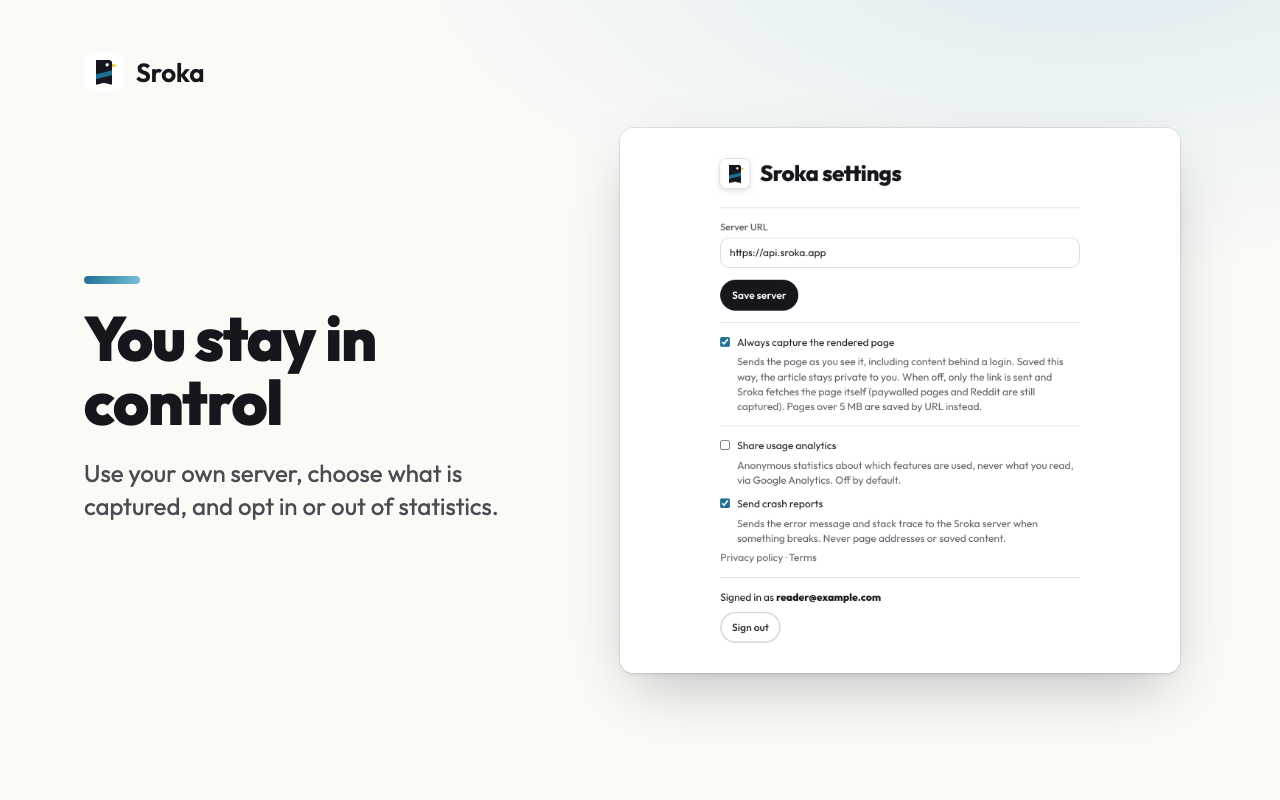
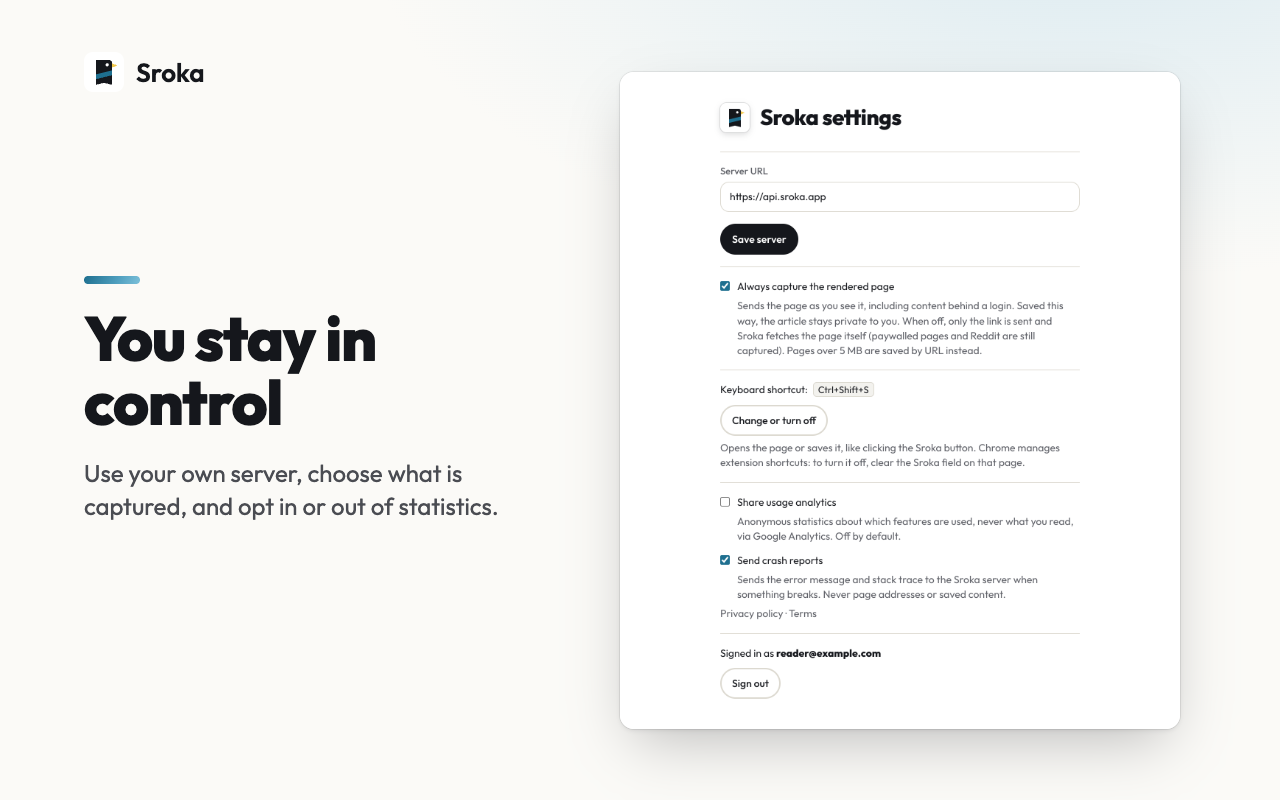
feat(extension): 0.8.0 — Ctrl+Shift+S shortcut, turn it off from settings
Suggested shortcut is now Ctrl+Shift+S (Mac Command+Shift+S). Alt+Shift+S blocked typing Polish Ś,
and Ctrl/Command+Shift+Y is taken by Bitwarden. The options page gains a "Keyboard shortcut" section
showing the current binding (or Off) with a button to chrome://extensions/shortcuts, since an extension
cannot clear its own binding. README, landing page, web Settings, store listing and images updated.

Changed region(s): [[0.5, 0.1875, 0.9062, 0.875], [0.5, 0.9062, 0.9062, 0.9375], [0.5625, 0.125, 0.7188, 0.1562]]

diff --git a/apps/extension/entrypoints/options/Options.tsx b/apps/extension/entrypoints/options/Options.tsx
@@ -2,6 +2,7 @@ import { useEffect, useState } from "react";
 import { Mark } from "../../components/Mark.tsx";
 import { describeError, signOut } from "../../lib/api.ts";
 import { analyticsConfig, getConsent, PRIVACY_URL, setConsent as saveConsent, TERMS_URL, type Consent } from "../../lib/consent.ts";
+import { actionShortcut, openShortcutSettings } from "../../lib/shortcut.ts";
 import { DEFAULT_SERVER, getSettings, normalizeServerUrl, setSettings, clearSession, type Settings } from "../../lib/settings.ts";
 
 export function Options() {
@@ -10,6 +11,7 @@ export function Options() {
   const [consent, setConsent] = useState<Consent>({ analytics: null, errors: true });
   const [msg, setMsg] = useState("");
   const [err, setErr] = useState("");
+  const [shortcut, setShortcut] = useState<string | null>(null);
 
   const load = async () => {
     const cur = await getSettings();
@@ -18,6 +20,17 @@ export function Options() {
   };
   useEffect(() => void load(), []);
   useEffect(() => void getConsent().then(setConsent), []);
+  // Re-read the binding when the user comes back from chrome://extensions/shortcuts.
+  useEffect(() => {
+    const refresh = () => void actionShortcut().then(setShortcut);
+    refresh();
+    window.addEventListener("focus", refresh);
+    document.addEventListener("visibilitychange", refresh);
+    return () => {
+      window.removeEventListener("focus", refresh);
+      document.removeEventListener("visibilitychange", refresh);
+    };
+  }, []);
   const update = async (patch: Partial<Consent>) => setConsent(await saveConsent(patch));
 
   if (!s) return null;
@@ -87,6 +100,19 @@ export function Options() {
             </span>
           </span>
         </label>
+      </div>
+
+      <div className="section">
+        <p style={{ margin: "0 0 10px" }}>
+          Keyboard shortcut: {shortcut ? <kbd>{shortcut}</kbd> : <strong>Off</strong>}
+        </p>
+        <button className="btn" style={{ flex: "0 0 auto" }} onClick={() => void openShortcutSettings()}>
+          {shortcut ? "Change or turn off" : "Set a shortcut"}
+        </button>
+        <p className="hint">
+          Opens the page or saves it, like clicking the Sroka button. Chrome manages extension shortcuts: to turn it off,
+          clear the Sroka field on that page.
+        </p>
       </div>
 
       <div className="section">

diff --git a/apps/extension/lib/shortcut.test.ts b/apps/extension/lib/shortcut.test.ts
@@ -1,5 +1,5 @@
 import { beforeEach, describe, expect, it, vi } from "vitest";
-import { actionShortcut, markShortcutHintSeen, shortcutHintToShow } from "./shortcut.ts";
+import { actionShortcut, markShortcutHintSeen, openShortcutSettings, SHORTCUTS_URL, shortcutHintToShow } from "./shortcut.ts";
 import { installChrome } from "./test-chrome.ts";
 
 let chromeMock: ReturnType<typeof installChrome> & { commands?: { getAll: ReturnType<typeof vi.fn> } };
@@ -13,8 +13,8 @@ beforeEach(() => {
 
 describe("shortcut hint", () => {
   it("returns the actual binding of _execute_action", async () => {
-    withCommands([{ name: "other", shortcut: "Ctrl+Q" }, { name: "_execute_action", shortcut: "Alt+Shift+S" }]);
-    expect(await actionShortcut()).toBe("Alt+Shift+S");
+    withCommands([{ name: "other", shortcut: "Ctrl+Q" }, { name: "_execute_action", shortcut: "Ctrl+Shift+S" }]);
+    expect(await actionShortcut()).toBe("Ctrl+Shift+S");
   });
 
   it("returns null when the shortcut is unbound or missing", async () => {
@@ -31,9 +31,19 @@ describe("shortcut hint", () => {
   });
 
   it("is shown until marked seen, then never again", async () => {
-    withCommands([{ name: "_execute_action", shortcut: "⌥⇧S" }]);
-    expect(await shortcutHintToShow()).toBe("⌥⇧S");
+    withCommands([{ name: "_execute_action", shortcut: "⇧⌘S" }]);
+    expect(await shortcutHintToShow()).toBe("⇧⌘S");
     await markShortcutHintSeen();
     expect(await shortcutHintToShow()).toBeNull();
+  });
+});
+
+describe("shortcut settings", () => {
+  it("opens Chrome's extension shortcuts page", async () => {
+    const create = vi.fn(async () => ({}));
+    (chromeMock as unknown as { tabs: unknown }).tabs = { create };
+    await openShortcutSettings();
+    expect(create).toHaveBeenCalledWith({ url: SHORTCUTS_URL });
+    expect(SHORTCUTS_URL).toBe("chrome://extensions/shortcuts");
   });
 });

diff --git a/apps/extension/wxt.config.ts b/apps/extension/wxt.config.ts
@@ -28,10 +28,10 @@ export default defineConfig({
     name: "Sroka — Save for later",
     description: "Save pages to read later in Sroka",
     ...(process.env.SROKA_STORE_BUILD ? {} : { key: EXT_PUBLIC_KEY }),
-    // Alt+Shift+S opens the popup, which saves the page (`_execute_action` needs no permission). Users can rebind it
+    // Ctrl+Shift+S (Mac: Command+Shift+S) opens the popup, which saves the page (`_execute_action` needs no permission). Users can rebind it
     // at chrome://extensions/shortcuts; the popup shows the actual binding once.
     commands: {
-      _execute_action: { suggested_key: { default: "Alt+Shift+S", mac: "Alt+Shift+S" }, description: "Save this page to Sroka" },
+      _execute_action: { suggested_key: { default: "Ctrl+Shift+S", mac: "Command+Shift+S" }, description: "Save this page to Sroka" },
     },
     permissions: ["activeTab", "contextMenus", "storage", "scripting", "alarms", "tabs"],
     host_permissions: [

diff --git a/apps/web/index.html b/apps/web/index.html
@@ -141,7 +141,7 @@
           <li class="card">
             <div class="card-top"><span class="num">1</span></div>
             <h3>Spot it</h3>
-            <p>Click the magpie in Chrome (<code>Alt+Shift+S</code>), paste a link on the web, or share from any app on Android, iPhone, or iPad.</p>
+            <p>Click the magpie in Chrome (<code>Ctrl+Shift+S</code>, <code>⌘⇧S</code> on Mac), paste a link on the web, or share from any app on Android, iPhone, or iPad.</p>
           </li>
           <li class="card">
             <div class="card-top"><span class="num">2</span></div>

diff --git a/apps/extension/lib/shortcut.ts b/apps/extension/lib/shortcut.ts
@@ -32,3 +32,14 @@ export async function markShortcutHintSeen(): Promise<void> {
     /* best effort */
   }
 }
+
+/**
+ * Chrome's own page for extension shortcuts. An extension cannot change or clear its command binding itself, so
+ * "turn off" means clearing it there (that also frees the key for typing). Extension pages may open chrome:// URLs
+ * with `tabs.create`.
+ */
+export const SHORTCUTS_URL = "chrome://extensions/shortcuts";
+
+export async function openShortcutSettings(): Promise<void> {
+  await ext().tabs.create({ url: SHORTCUTS_URL });
+}

diff --git a/apps/web/src/routes/Settings.tsx b/apps/web/src/routes/Settings.tsx
@@ -131,7 +131,7 @@ export default function Settings() {
       </Section>
 
       <Section title="Browser extension">
-        <p className="text-sm text-ink2">Save any page with one click or Alt+Shift+S.</p>
+        <p className="text-sm text-ink2">Save any page with one click or Ctrl+Shift+S (⌘⇧S on Mac).</p>
         <a className="btn mt-3" href={EXTENSION_URL} target="_blank" rel="noopener noreferrer">Get the Chrome extension</a>
       </Section>
 

diff --git a/apps/extension/assets/tailwind.css b/apps/extension/assets/tailwind.css
@@ -134,3 +134,12 @@ body {
   padding: 16px 0;
   border-top: 1px solid var(--line);
 }
+.page kbd {
+  margin-left: 4px;
+  padding: 1px 6px;
+  border: 1px solid var(--line);
+  border-radius: 5px;
+  background: var(--chip);
+  font: inherit;
+  font-size: 0.92em;
+}

diff --git a/docs/decisions.md b/docs/decisions.md
@@ -66,7 +66,7 @@ Exact HTTP/sync contract: `docs/api.md` (written in the foundation step; source 
 
 ## D8 Clients
 - Web (`apps/web`): React 19 + Vite + react-router 7 data mode + TanStack Query + Tailwind v4. Same-origin fetch to `/v1` and `/api/auth` with `credentials: "same-origin"`. Vite multi-page build: `apps/web/index.html` = static landing at `/`, `apps/web/app/index.html` = SPA at `/app/` (react-router `basename: "/app"`). `workers/api` assets dir = `../../apps/web/dist`, `not_found_handling: "none"`, `run_worker_first: true` (every request hits the Worker first — needed for the content-host branching; non-API paths go to `env.ASSETS`); the Worker serves `/app/*` via `env.ASSETS.fetch(req)` and falls back to `/app/index.html` on 404 (SPA deep links). Use the `frontend-design` skill; brand = magpie (black/white with iridescent blue-green accent).
-- Extension (`apps/extension`): WXT + React, MV3. Toolbar popup: sign-in (email → code), "Saved ✓" on open + tag input with suggestions, open library. Context menus "Save link to Sroka" / "Save page to Sroka", badge (no keyboard commands: Alt+Shift+letter blocks Polish Ś/Ą) for current tab, retry queue in `chrome.storage.local`, options: server URL (default `https://api.sroka.app`), "always capture rendered page" (default on since 2026-10-23; captures are stripped and gzipped, api.md §5.1). host_permissions: `https://api.sroka.app/*` (+ `http://localhost:8787/*` in dev); `optional_host_permissions: ["https://*/*", "http://localhost/*"]` — the options page calls `chrome.permissions.request({origins:[origin + "/*"]})` when a custom server URL is saved. "Open library" opens `${appOrigin}/app/` with `appOrigin` from `GET /v1/config`.
+- Extension (`apps/extension`): WXT + React, MV3. Toolbar popup: sign-in (email → code), "Saved ✓" on open + tag input with suggestions, open library. Context menus "Save link to Sroka" / "Save page to Sroka", badge for current tab, keyboard shortcut `_execute_action` suggested Ctrl+Shift+S / Mac Command+Shift+S (never Alt+Shift+letter: it blocks Polish Ś/Ą; not Ctrl/Command+Shift+Y: Bitwarden uses it; 2026-11-23); the options page links to chrome://extensions/shortcuts to change or turn it off, retry queue in `chrome.storage.local`, options: server URL (default `https://api.sroka.app`), "always capture rendered page" (default on since 2026-10-23; captures are stripped and gzipped, api.md §5.1). host_permissions: `https://api.sroka.app/*` (+ `http://localhost:8787/*` in dev); `optional_host_permissions: ["https://*/*", "http://localhost/*"]` — the options page calls `chrome.permissions.request({origins:[origin + "/*"]})` when a custom server URL is saved. "Open library" opens `${appOrigin}/app/` with `appOrigin` from `GET /v1/config`.
   - **Badge privacy (2026-11-10):** the "saved" badge is computed locally from hashes of the user's saved URLs; visited URLs are never sent. The extension keeps a set of truncated sha256 hashes of `normalizeUrl` of each live item's `url`/`canonicalUrl` in `chrome.storage.local` (`lib/saved-set.ts`), filled by `GET /v1/sync/pull` (full pass from 0 once, then incremental from the stored cursor, tombstones remove entries) on sign-in, browser startup, every 20 min, and updated directly when the extension saves or deletes. Cleared on sign-out; replaced on account/server change. Never loaded (first run, offline) → no badge, no network fallback. `GET /v1/items?url=` is only used after a user action on that page (toolbar-icon menu "Open in Sroka"/"Remove from Sroka" when the item is not in the local set).
 
 ## D9 Conventions

diff --git a/apps/extension/CLAUDE.md b/apps/extension/CLAUDE.md
@@ -21,7 +21,7 @@ Sign-in click (`openedSignedOut` in `entrypoints/popup/App.tsx`): a popup opened
 
 Analytics consent card (D15): not shown at first run or on sign-in. `sroka.hasSaved.v1` (storage.local) is set on the first successful save from any path (`saveWithFallback`, queue flush); the popup asks `consentCardDue()` together with the saved result and renders the card only on the saved screen (`consentCardVisible`) while the answer is unanswered (unanswered = nothing sent). The 3 s auto-close is held while it shows (`autoCloseWanted`). Options page switches unchanged.
 
-Saved-popup behaviour: `lib/auto-close.ts` (pure timer: `start`/`hold`/`release`/`cancel`, vitest with fake timers) closes the popup 3 s after the saved state shows (new or already saved). Hover or keyboard focus pauses it; any click/keypress cancels it for good until the next save; it never runs in any other phase nor while the consent or failed-saves card shows; reduced-motion hides the shrinking line but still closes. Manifest `commands._execute_action` (suggested Alt+Shift+S) opens the popup; `lib/shortcut.ts` reads the real binding via `chrome.commands.getAll()` and the popup shows it once (`sroka.shortcutHint.v1`), only if bound. Failed-save wording lives in `lib/save-failure.ts` (body never repeats the title). US spelling "Favorite" everywhere.
+Saved-popup behaviour: `lib/auto-close.ts` (pure timer: `start`/`hold`/`release`/`cancel`, vitest with fake timers) closes the popup 3 s after the saved state shows (new or already saved). Hover or keyboard focus pauses it; any click/keypress cancels it for good until the next save; it never runs in any other phase nor while the consent or failed-saves card shows; reduced-motion hides the shrinking line but still closes. Manifest `commands._execute_action` (suggested Ctrl+Shift+S, Mac Command+Shift+S; not Alt+Shift+letter, which blocks Polish Ś/Ą; not Ctrl/Command+Shift+Y, which Bitwarden uses) opens the popup; `lib/shortcut.ts` reads the real binding via `chrome.commands.getAll()` and the popup shows it once (`sroka.shortcutHint.v1`), only if bound. Options page "Keyboard shortcut" shows the binding (or Off, re-read on focus) and opens `chrome://extensions/shortcuts` (`openShortcutSettings`): an extension cannot change or clear its own binding, so turning it off means clearing it there. Failed-save wording lives in `lib/save-failure.ts` (body never repeats the title). US spelling "Favorite" everywhere.
 
 ## Decisions that apply
 D8 (features, server URL option default `https://api.sroka.app`; when the user saves a custom URL the options page must call `chrome.permissions.request({ origins: [new URL(url).origin + "/*"] })` — allowed by `optional_host_permissions` — and refuse to save if denied; "Open library" opens `${appOrigin}/app/` from `GET /v1/config`), D4 (bearer token from `set-auth-token` header, `chrome.storage.local`), D1.

diff --git a/store/chrome-web-store/listing.md b/store/chrome-web-store/listing.md
@@ -9,7 +9,7 @@ Sroka — Save for later
 
 ## Summary (dashboard field, max 132 chars; this text is 124)
 ```
-Save any page to read later in Sroka. One click or Alt+Shift+S. Keeps paywalled pages and Reddit, X and Hacker News threads.
+Save any page to read later in Sroka. One click or Ctrl+Shift+S. Keeps paywalled pages and Reddit, X and Hacker News threads.
 ```
 Note: the manifest `description` ("Save pages to read later in Sroka") is a different, shorter string. Optionally change it in `apps/extension/wxt.config.ts` to match before building the final zip.
 
@@ -17,10 +17,10 @@ Note: the manifest `description` ("Save pages to read later in Sroka") is a diff
 ```
 Sroka is a read-later app: save it now, read it later, on any device.
 
-This extension adds a save button to Chrome. Click the magpie in the toolbar (or press Alt+Shift+S) and the page goes into your Sroka library. Open it later in the Sroka web app or the Sroka Android app, in a clean reader view, even offline.
+This extension adds a save button to Chrome. Click the magpie in the toolbar (or press Ctrl+Shift+S, ⌘⇧S on Mac) and the page goes into your Sroka library. Open it later in the Sroka web app or the Sroka Android app, in a clean reader view, even offline.
 
 WHAT YOU CAN DO
-- Save the current page from the toolbar button or the keyboard shortcut (Alt+Shift+S, rebindable at chrome://extensions/shortcuts).
+- Save the current page from the toolbar button or the keyboard shortcut (Ctrl+Shift+S, ⌘⇧S on Mac). Change it or turn it off from the extension settings.
 - Save a link or a page from the right-click menu.
 - Add tags and mark favorites right from the popup. Sroka suggests tags you already use.
 - See on the toolbar badge that the page you are on is already saved. This check is done on your device; the address of the page you are visiting is not sent to Sroka for it.

diff --git a/store/chrome-web-store/test-instructions.md b/store/chrome-web-store/test-instructions.md
@@ -12,7 +12,7 @@ Email: <REVIEW_EMAIL>
 Code: <REVIEW_OTP>
 
 1. Click the extension's toolbar icon (the magpie). Enter the email above to request a code. On the code screen, type the code above. The code is fixed for this account, so no email needs to arrive. Please request it once; codes are rate limited.
-2. Open any article in a tab, for example https://en.wikipedia.org/wiki/Magpie, then click the toolbar icon (or press Alt+Shift+S). The popup shows "Saved". Add a tag or toggle Favorite.
+2. Open any article in a tab, for example https://en.wikipedia.org/wiki/Magpie, then click the toolbar icon (or press Ctrl+Shift+S, ⌘⇧S on Mac). The popup shows "Saved". Add a tag or toggle Favorite.
 3. Press "Open" in the popup (or right-click the toolbar icon and choose Open Sroka) to see the saved page in the web library at https://sroka.app/app/.
 4. Right-click a page and choose the Sroka save entry; it works the same way. Right-click the toolbar icon on a saved page to see "Open in Sroka" and "Remove from Sroka".
 5. Options (right-click the toolbar icon > Options): the capture setting and the analytics and error-report switches. Analytics is off until you press "Allow" on the card shown after the first save.

diff --git a/README.md b/README.md
@@ -32,7 +32,7 @@
 
 ## Save once. Read offline.
 
-Click the magpie in Chrome (`Alt+Shift+S`), paste a link on the web, or tap **Share → Sroka** from any app on Android, iPhone, or iPad — browsers, newsletters, Reddit, Hacker News, X, or PDFs.
+Click the magpie in Chrome (`Ctrl+Shift+S`, `⌘⇧S` on Mac), paste a link on the web, or tap **Share → Sroka** from any app on Android, iPhone, or iPad — browsers, newsletters, Reddit, Hacker News, X, or PDFs.
 
 On the native Android and Apple apps, **saved means offline**: article text, images, and supported discussions download automatically (over Wi-Fi by default, configurable in Settings) so your reading list is waiting in airplane mode, subway tunnels, or anywhere without signal. Article reading position syncs across devices once you're back online.
 
